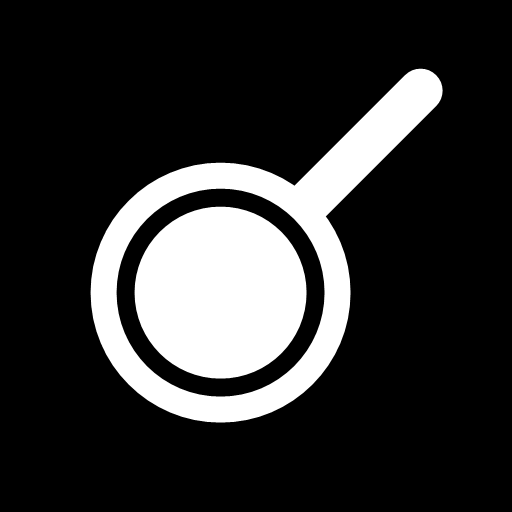
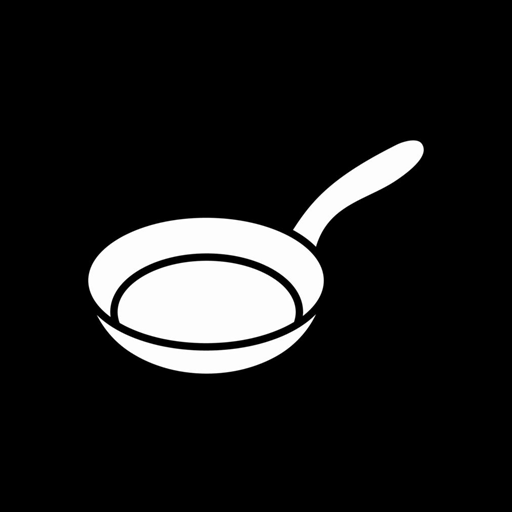
Add files via upload

Changed region(s): [[0.1562, 0.125, 0.875, 0.8438]]

diff --git a/sw.js b/sw.js
@@ -1,5 +1,5 @@
 // Offline cache. Add new files to FILES; bump VERSION to drop old caches.
-const VERSION = 'v22';
+const VERSION = 'v26';
 const CACHE = `breakit-${VERSION}`;
 const FILES = [
   './',
@@ -50,7 +50,7 @@ const FILES = [
   'games/pans/solver.js',
   'games/pans/stats.js',
   'games/pans/worker.js',
-  'icons/icon.svg',
+  'icons/favicon.png',
   'icons/icon-192.png',
   'icons/icon-512.png',
   'icons/apple-touch-icon.png',

diff --git a/index.html b/index.html
@@ -11,7 +11,7 @@
   <meta name="apple-mobile-web-app-title" content="Break It">
   <title>Break It</title>
   <link rel="manifest" href="manifest.webmanifest">
-  <link rel="icon" href="icons/icon.svg" type="image/svg+xml">
+  <link rel="icon" href="icons/favicon.png" type="image/png">
   <link rel="apple-touch-icon" href="icons/apple-touch-icon.png">
   <link rel="stylesheet" href="css/app.css">
   <script>

diff --git a/js/settings.js b/js/settings.js
@@ -6,7 +6,7 @@ import * as playtimer from './playtimer.js';
 
 const STEPS = [5, 10, 15, 20, 30, 45, 60, 90, 120, 180];
 
-export const APP_VERSION = '1.22.1';
+export const APP_VERSION = '1.22.5';
 
 export function renderSettings(el) {
   const s = playtimer.getSettings();

diff --git a/README.md b/README.md
@@ -114,4 +114,4 @@ Then open http://localhost:8000.
 3. Add its files to `FILES` in `sw.js` so it works offline.
 4. Call `playtimer.start()` while the game is being played, so the play-time limit counts it.
 
-`tools/make-icons.ps1` regenerates the PNG icons.
+`tools/make-icons.ps1` regenerates the PNG icons from `icons/pan-source.png` (a black pan on white), inverting it to white on black.
